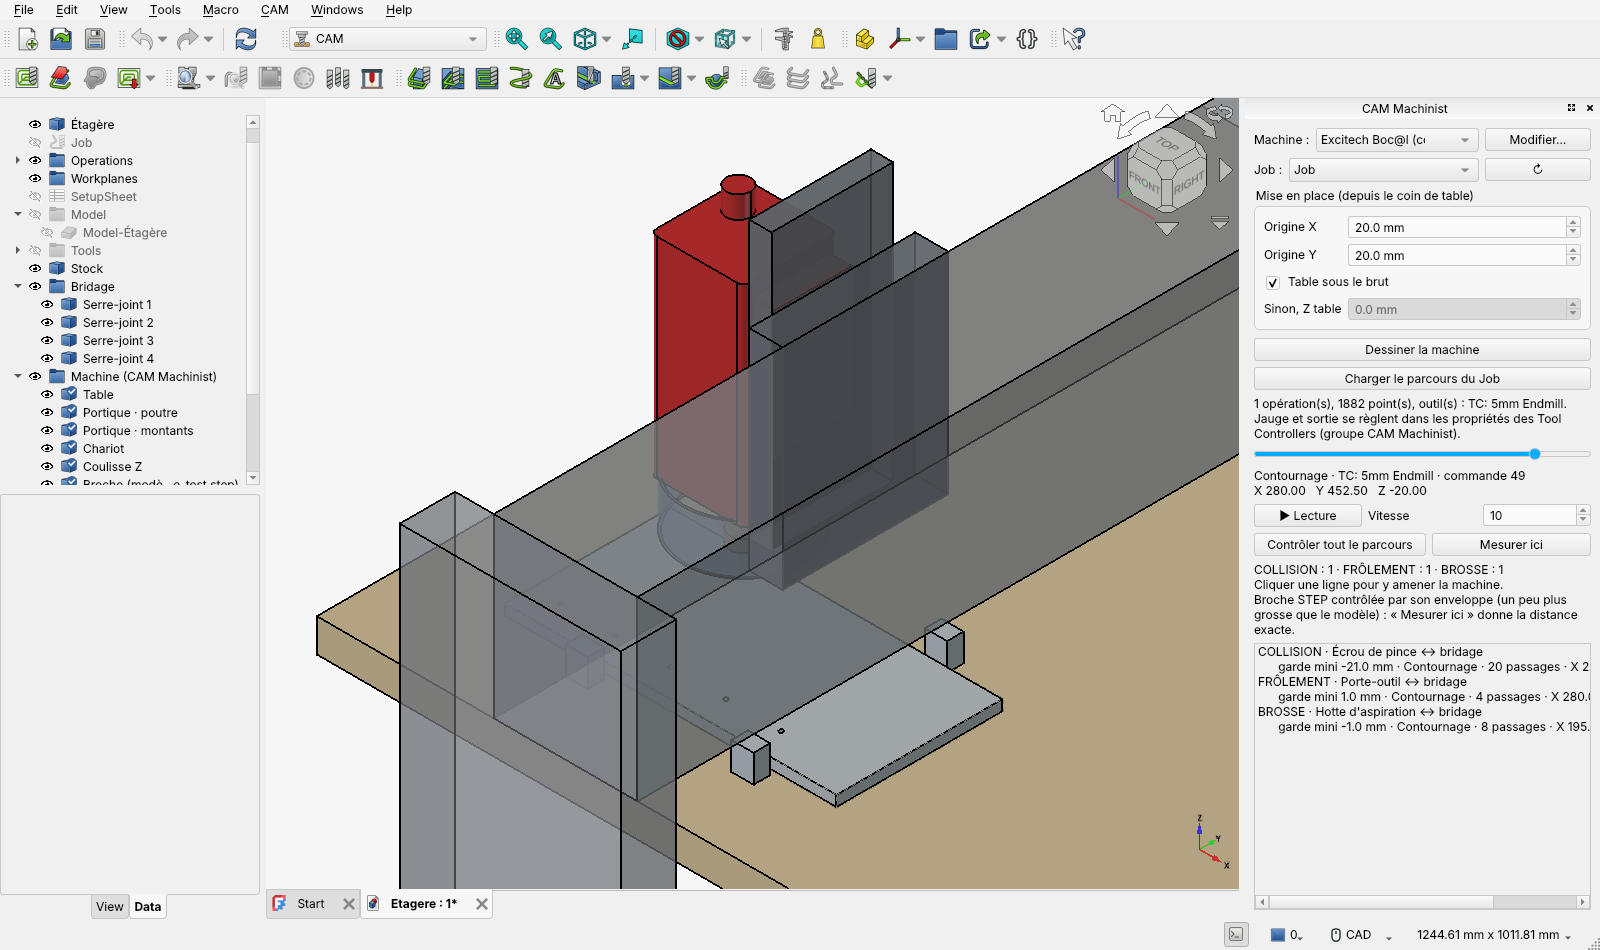
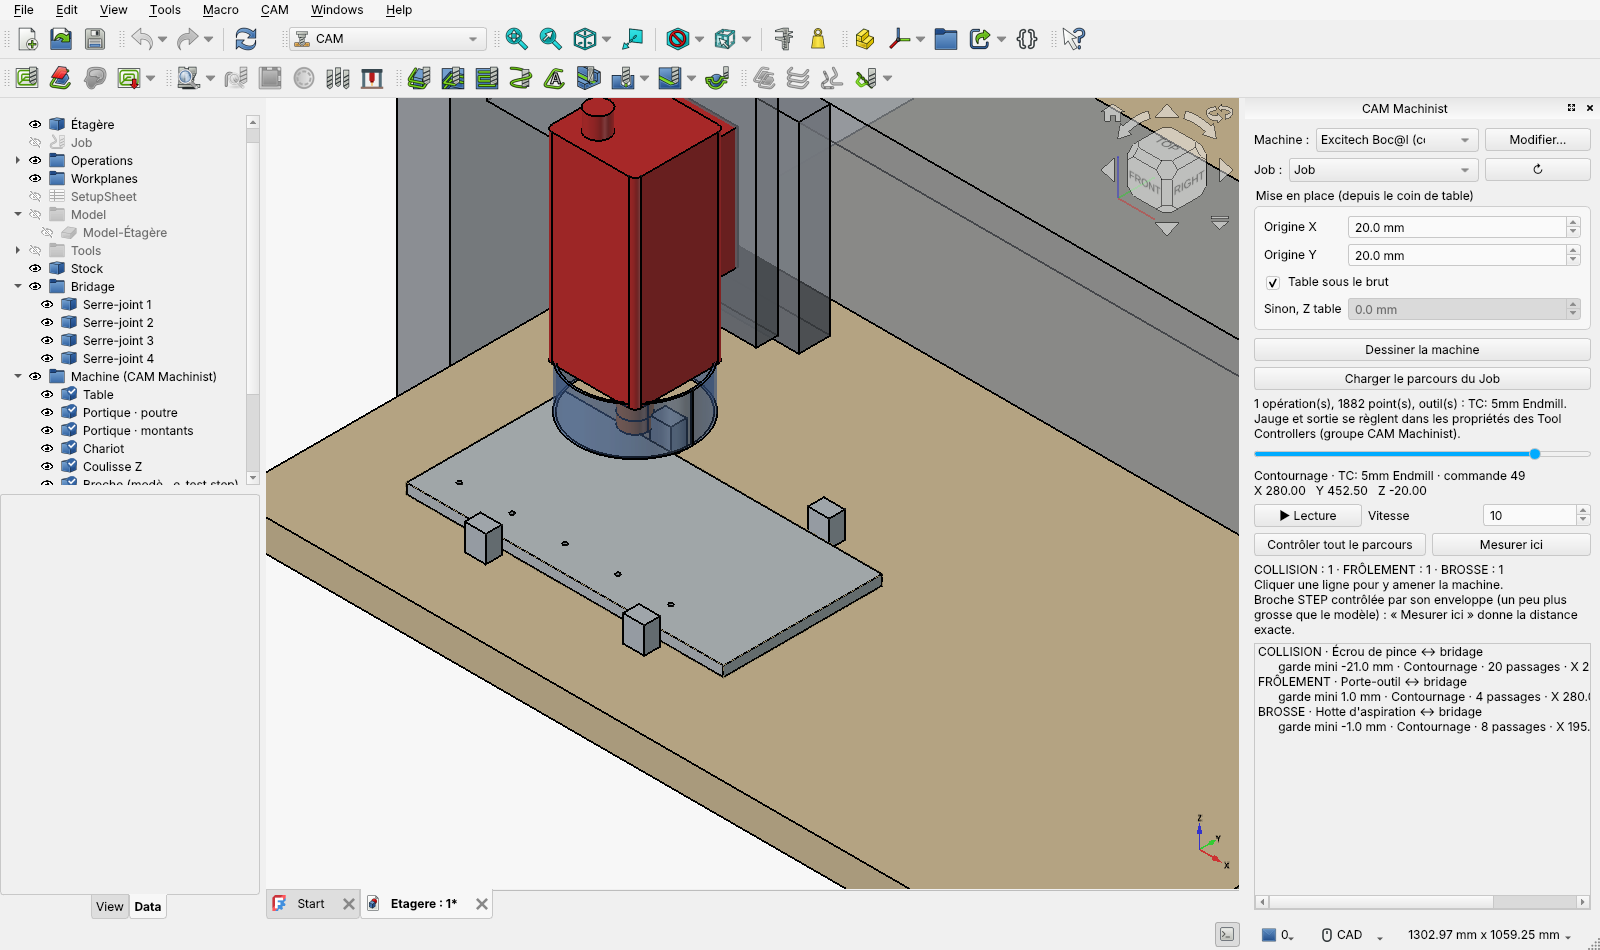
CAM Machinist 0.2.2 : axes X et Y remis dans le bon sens
Le profil Excitech fourni et les valeurs par défaut plaçaient le grand
côté de la table en X avec un portique avançant en X : la machine
paraissait tournée d'un quart de tour. Ils passent à une table
1600 x 3100 avec un portique qui avance en Y (courses X 0-1530,
Y 0-3050). Le moteur suivait déjà correctement le profil (vérifié axe
par axe pour les deux orientations).

Ajout d'un bouton « Permuter X et Y » dans l'éditeur de profil : il
échange les cotes X/Y de la table et des courses, et l'axe d'avance du
portique, pour corriger un profil personnel en un clic.

Testé avec FreeCAD 1.1.1 et 26.3 (RC2).

Claude-Session: https://claude.ai/code/session_01PH3hctNAPAQQKbCAAgvaEw

diff --git a/freecad/cam_machinist/editeur.py b/freecad/cam_machinist/editeur.py
@@ -160,6 +160,10 @@ class Editeur(QtWidgets.QDialog):
         self.b_tableur.clicked.connect(self.reprendre_tableur)
         self.b_tableur.setVisible(self.doc_cam is not None and self.doc_cam.getObject("MachineParams") is not None)
         r.addWidget(self.b_tableur)
+        b = QtWidgets.QPushButton("Permuter X et Y")
+        b.setToolTip("Échange les cotes X et Y de la table et des courses, et l'axe d'avance du portique")
+        b.clicked.connect(self.permuter_xy)
+        r.addWidget(b)
         b = QtWidgets.QPushButton("Nouveau")
         b.clicked.connect(self.nouveau)
         r.addWidget(b)
@@ -564,6 +568,26 @@ class Editeur(QtWidgets.QDialog):
         self.dire("Profil supprimé.")
         if self.rappel and self.prof.get("_id"):
             self.rappel(self.prof["_id"])
+
+    def permuter_xy(self):
+        """Pour une machine dont les axes X et Y sont dans l'autre sens : table, courses, avance du portique."""
+        self._remplissage = True
+        try:
+            for xa, ya in (("TableX", "TableY"), ("CourseXmin", "CourseYmin"), ("CourseXmax", "CourseYmax")):
+                ix, iy = self.table.item(self.lignes[xa], 1), self.table.item(self.lignes[ya], 1)
+                tx, ty = ix.text(), iy.text()
+                ix.setText(ty)
+                iy.setText(tx)
+            it = self.table.item(self.lignes["AxePortique"], 1)
+            try:
+                v = _nombre(it.text())
+            except ValueError:
+                v = 0.0
+            it.setText("1" if v < 0.5 else "0")
+        finally:
+            self._remplissage = False
+        self.modifie = True
+        self.dire("X et Y permutés (table, courses, avance du portique). Vérifier puis enregistrer.")
 
     def reprendre_tableur(self):
         p = profils.reprendre_tableur(self.doc_cam)

diff --git a/freecad/cam_machinist/moteur.py b/freecad/cam_machinist/moteur.py
@@ -29,20 +29,20 @@ GROUPE_PROPS = "CAM Machinist"
 # -----------------------------------------------------------------------------
 PARAMS = [
     ("Table", None, None, None, None),
-    ("", "TableX", 3100, "mm", "Longueur de la table selon X"),
-    ("", "TableY", 1600, "mm", "Largeur de la table selon Y"),
+    ("", "TableX", 1600, "mm", "Dimension de la table selon X"),
+    ("", "TableY", 3100, "mm", "Dimension de la table selon Y"),
     ("", "TableEp", 60, "mm", "Épaisseur dessinée de la table (martyr compris)"),
 
     ("Courses (depuis le coin de table)", None, None, None, None),
     ("", "CourseXmin", 0, "mm", "Axe broche : X mini atteignable"),
-    ("", "CourseXmax", 3050, "mm", "Axe broche : X maxi atteignable"),
+    ("", "CourseXmax", 1530, "mm", "Axe broche : X maxi atteignable"),
     ("", "CourseYmin", 0, "mm", "Axe broche : Y mini atteignable"),
-    ("", "CourseYmax", 1530, "mm", "Axe broche : Y maxi atteignable"),
+    ("", "CourseYmax", 3050, "mm", "Axe broche : Y maxi atteignable"),
     ("", "NezHautMax", 260, "mm", "Hauteur du nez de broche au-dessus de la table, Z en butée haute"),
     ("", "CourseZ", 200, "mm", "Course utile en Z"),
 
     ("Portique", None, None, None, None),
-    ("", "AxePortique", 0, "0/1", "0 = le portique se déplace en X, 1 = en Y"),
+    ("", "AxePortique", 1, "0/1", "1 = le portique avance en Y (grand côté en Y), 0 = il avance en X"),
     ("", "SensPoutre", 1, "+1/-1", "+1 = poutre côté + de l'axe portique par rapport à la broche, -1 = côté -"),
     ("", "PassageSousPortique", 200, "mm", "Hauteur libre entre table et dessous de poutre"),
     ("", "DecalagePoutre", 220, "mm", "Distance axe broche → face avant de la poutre"),

diff --git a/freecad/cam_machinist/__init__.py b/freecad/cam_machinist/__init__.py
@@ -3,4 +3,4 @@
 # CAM Machinist · FabLab Le Boc@l, Centre Social et Socioculturel du Chemillois
 """Portique et broche de la fraiseuse dans l'atelier CAM de FreeCAD."""
 
-__version__ = "0.2.1"
+__version__ = "0.2.2"

diff --git a/README.md b/README.md
@@ -72,6 +72,7 @@ Pour le contrôle de tout le parcours, la broche est remplacée par une **envelo
 ## Profils machine
 
 - Le profil fourni « Excitech Boc@l (cotes à mesurer) » contient des **valeurs de départ, pas les cotes réelles** : tant qu'elles ne sont pas mesurées, le contrôle ne garantit rien.
+- **Permuter X et Y** : si la machine dessinée paraît tournée d'un quart de tour par rapport à la vraie, ce bouton échange les cotes X et Y de la table et des courses, et l'axe d'avance du portique.
 - Les profils personnels sont rangés dans `<dossier utilisateur FreeCAD>/CAMMachinist/machines/`. Un profil personnel de même nom remplace le profil fourni.
 - **Exporter (.zip)** / **Importer (.zip)** : un profil voyage avec son modèle de broche.
 - Le document garde une copie des cotes : ouvert sur un poste qui n'a pas le profil, il reste utilisable (sans le modèle STEP).

diff --git a/CHANGELOG.md b/CHANGELOG.md
@@ -1,5 +1,10 @@
 # Journal des versions
 
+## 0.2.2 (2026-10-23)
+
+- Axes X et Y corrigés dans le profil Excitech fourni et les valeurs par défaut : table 1600 x 3100, portique qui avance en Y. Le moteur, lui, suivait déjà correctement le profil.
+- Bouton « Permuter X et Y » dans l'éditeur de profil : échange en un clic les cotes X/Y de la table et des courses, et l'axe d'avance du portique.
+
 ## 0.2.1 (2026-10-23)
 
 - L'extension prend le nom du dépôt : « CAM Machinist » (publiée quelques minutes plus tôt sous le nom « Portique CAM »).
